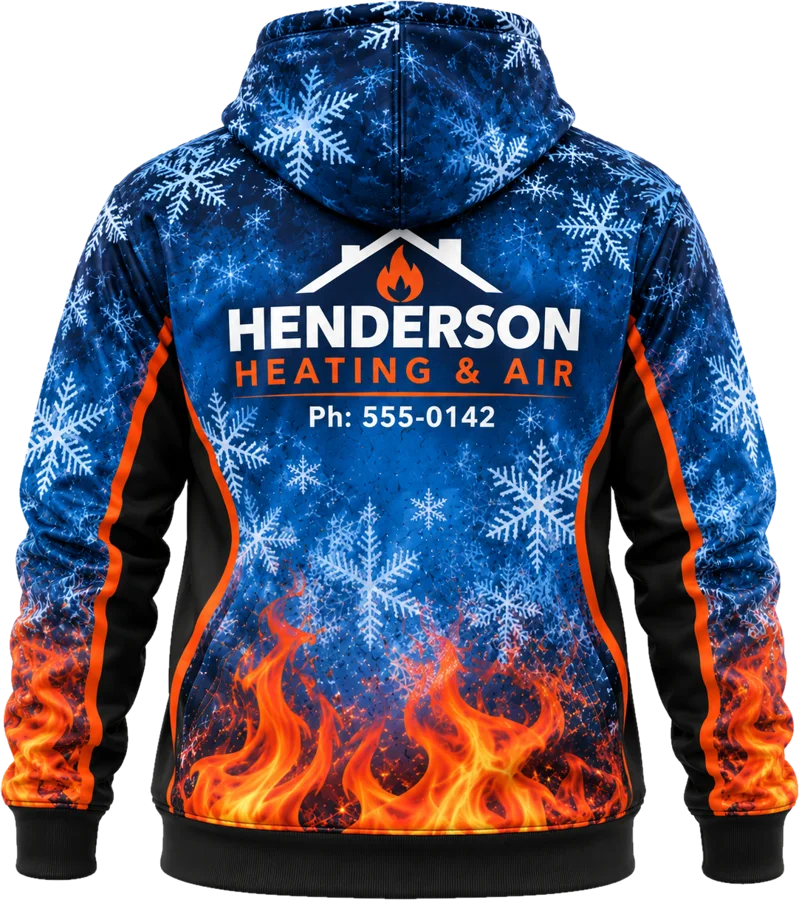
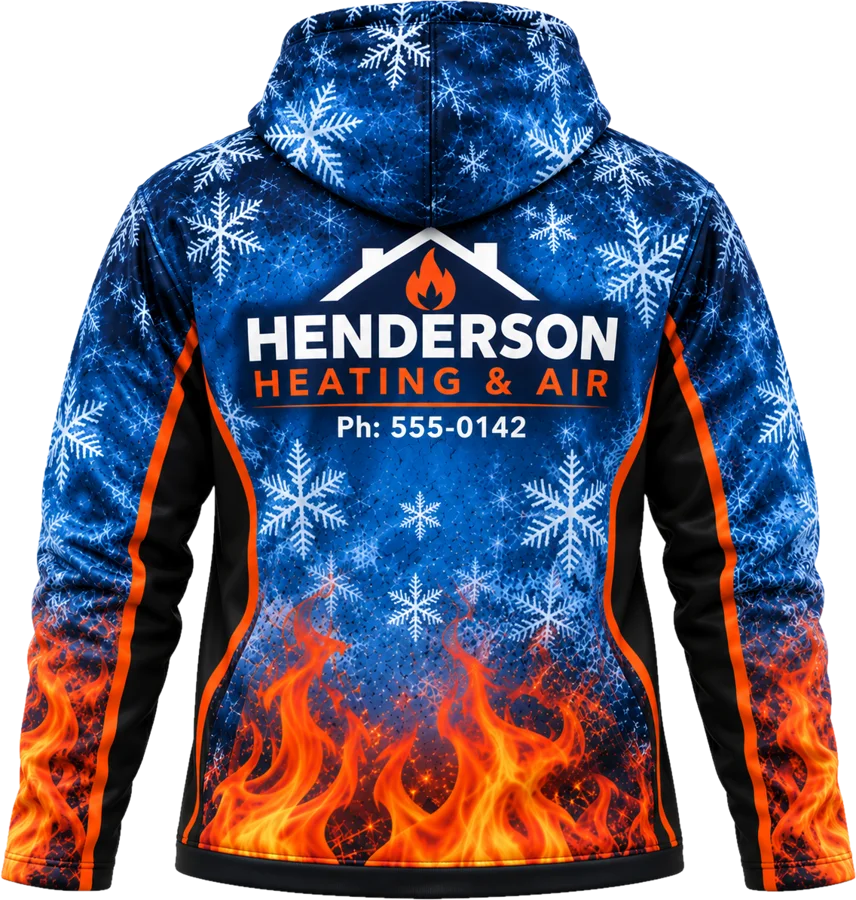
New no-rib hoodie front/back images and phone-friendly portrait infographic
Claude-Session: https://claude.ai/code/session_01TbcG3Kh5s2mFU6SAbFQnkw

diff --git a/public/index.html b/public/index.html
@@ -68,13 +68,8 @@
 <section class="anat"><div class="wrap">
 <p class="eyebrow">What you get</p>
 <h2>Every piece, <em>built</em> for the job</h2>
-<div class="feat">
-<div class="card"><h3>Print in the fibre</h3><p>Dye-sublimated into polyester. It can't crack, peel or fade like a patch or sticker.</p></div>
-<div class="card"><h3>Edge-to-edge design</h3><p>Front, back, sleeves and hood. Your name, logo and phone number printed all over.</p></div>
-<div class="card"><h3>Contrast side panels</h3><p>Colour-matched panels and stripes that give your crew a sharp, team-kit look.</p></div>
-<div class="card"><h3>Made for work</h3><p>Kangaroo pocket, lined hood with drawcords, light polyester that breathes.</p></div>
-</div>
-<p class="note">Fabric details confirmed with your quote.</p>
+<img class="info" src="/img/hoodie-anatomy.webp" width="1000" height="1250" loading="lazy" alt="Full-print hoodie: dye-sublimated fabric, lined hood, kangaroo pocket and contrast panels">
+<p class="note" style="text-align:center">Fabric details confirmed with your quote.</p>
 </div></section>
 
 <section id="products"><div class="wrap">

diff --git a/public/style.css b/public/style.css
@@ -152,3 +152,5 @@ footer a{display:block;padding:2px 0}footer a:hover{color:#fff}
 @media(min-width:760px){.feat{grid-template-columns:repeat(4,1fr)}}
 .feat .card h3{margin-bottom:6px}
 .feat .card p{color:var(--slate);font-size:15px}
+.anat .wrap{text-align:center}
+img.info{max-width:520px;width:100%;margin:26px auto 0;border-radius:var(--r);border:1px solid #e6e1d6;box-shadow:0 20px 40px -26px rgba(14,27,44,.4)}
